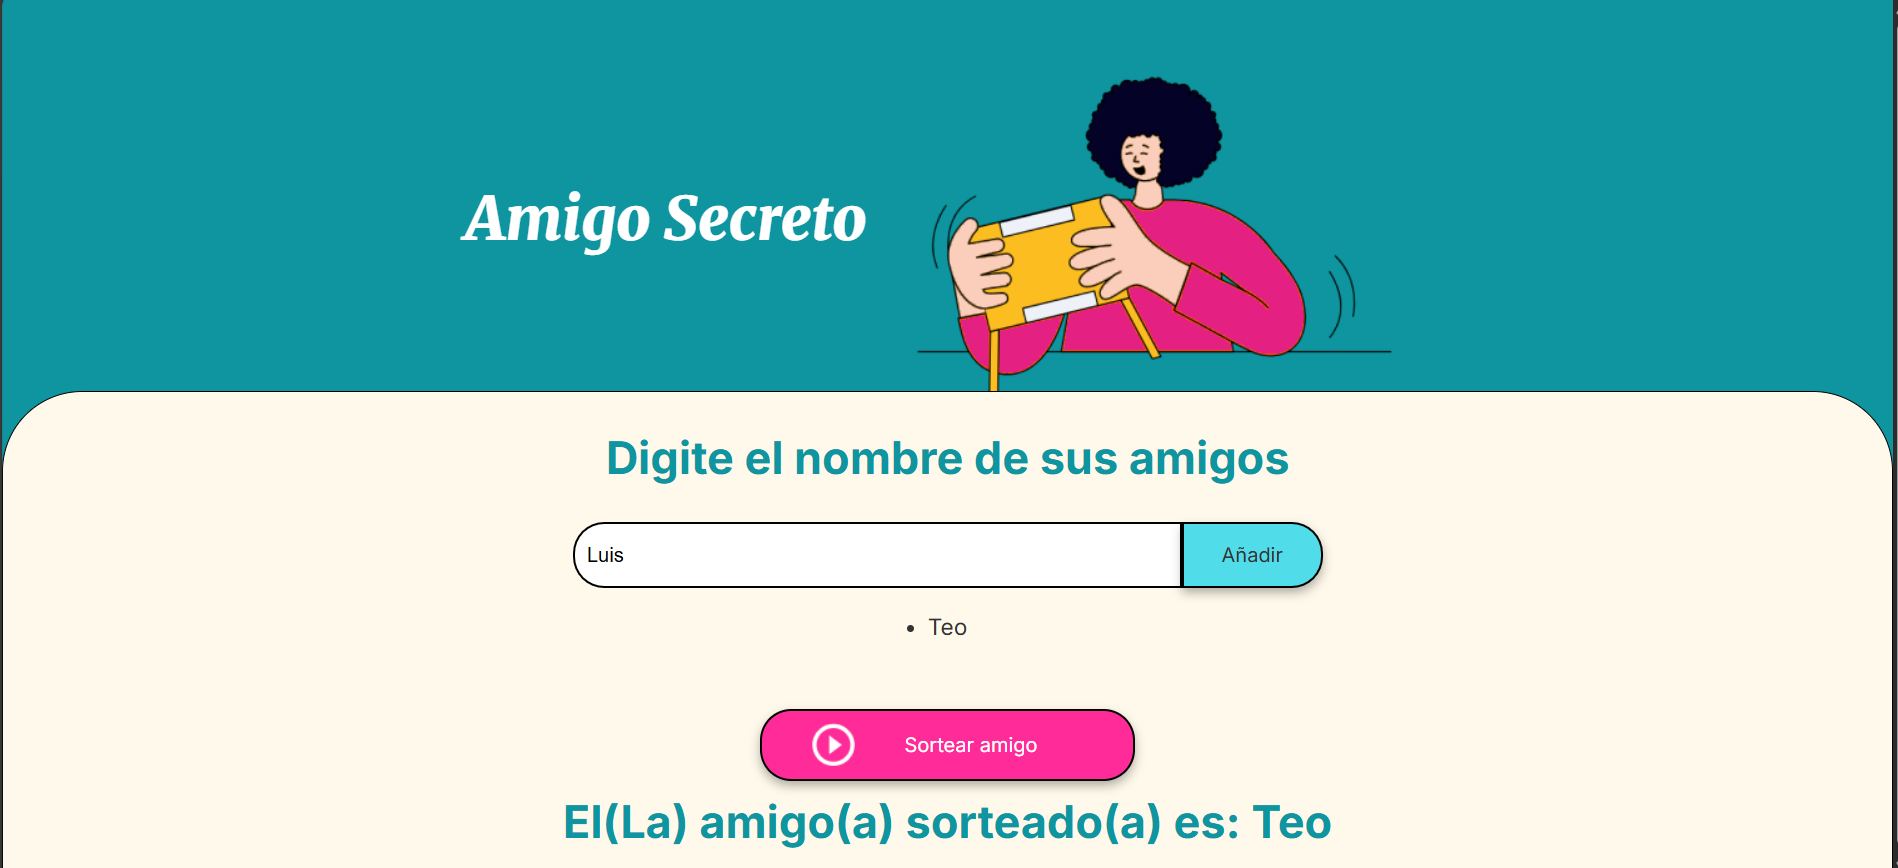
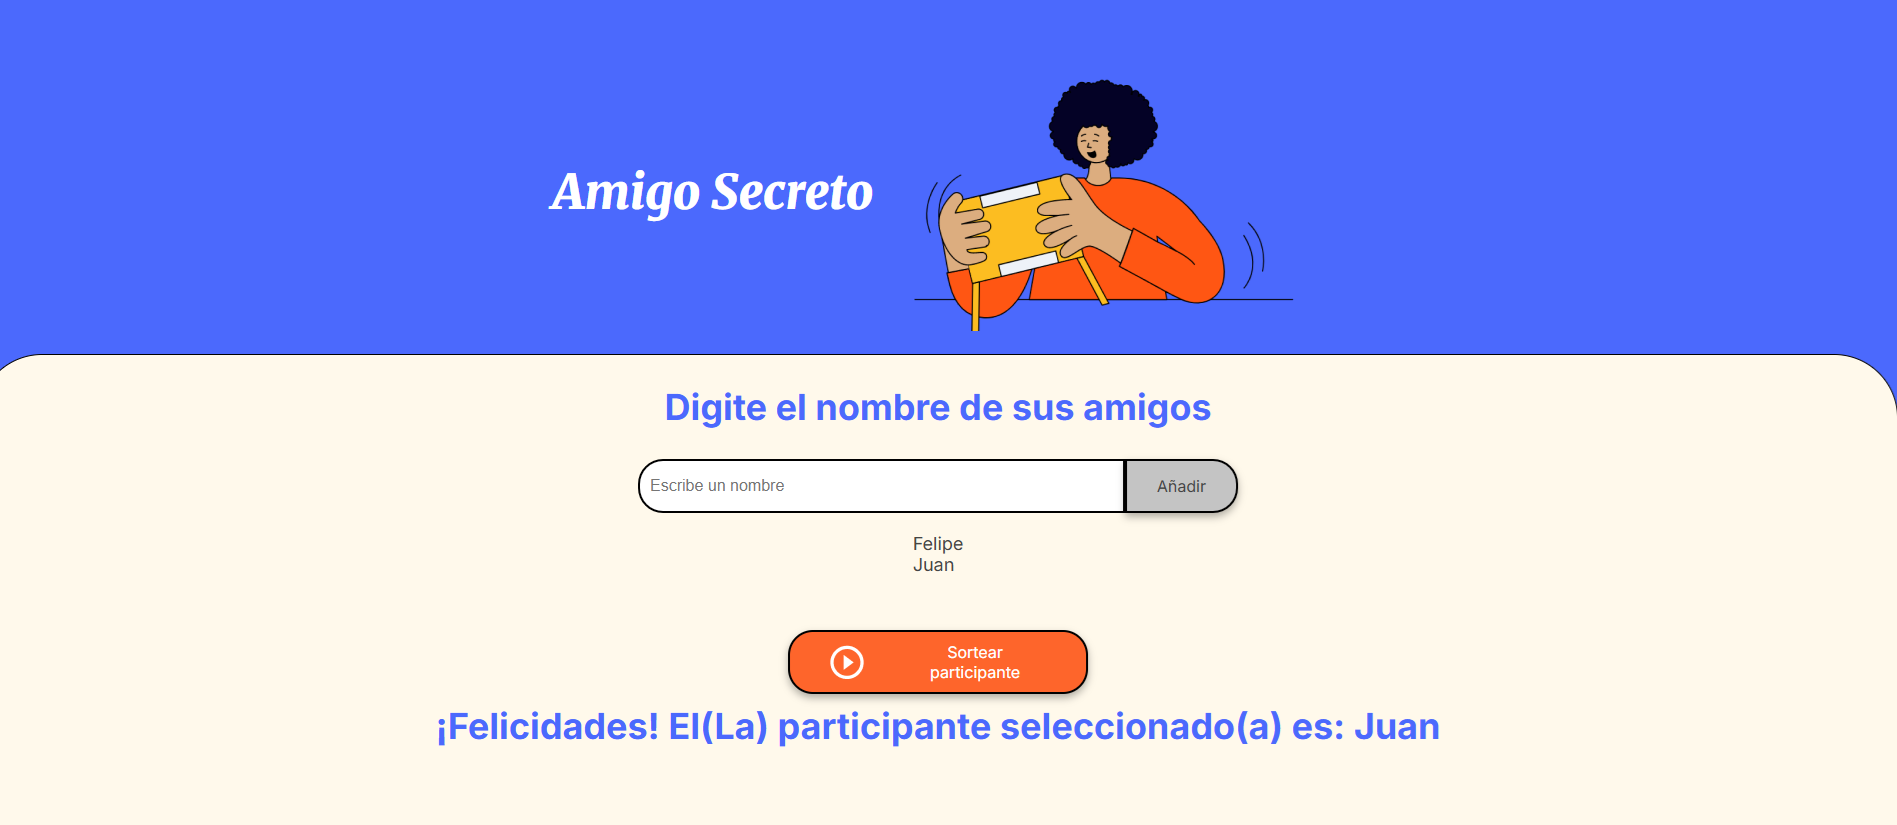
final

diff --git a/app.js b/app.js
@@ -1,48 +1,44 @@
 // El principal objetivo de este desafío es fortalecer tus habilidades en lógica de programación. 
 // Aquí deberás desarrollar la lógica para resolver el problema.
 
-let listaAmigos = [];
+let listaParticipantes = [];
 
-const nombreAmigo = document.getElementById("amigo");
+const inputParticipante = document.getElementById("participante");
 
-const listaHTML = document.getElementById("listaAmigos");
+const listaHTMLParticipantes = document.getElementById("listaParticipantes");
 
-let indiceAleatorio = 0;
+let indiceSeleccionado = 0;
 
-const amigoSorteado = document.getElementById("amigo-sorteado");
+const participanteSeleccionado = document.getElementById("participante-seleccionado");
 
-function limpiarCaja() {
-     nombreAmigo.value = '';
+function limpiarInput() {
+     inputParticipante.value = '';
 }
 
-function agregarAmigo() {
-    if (nombreAmigo.value == '') {
-        alert('Por favor ingresa un Nombre.');
+function agregarParticipante() {
+    if (inputParticipante.value == '') {
+        alert('Es necesario ingresar el nombre de un participante.');
     } else {
-        listaAmigos.push(nombreAmigo.value);
+        listaParticipantes.push(inputParticipante.value);
     }
-    limpiarCaja();
-    actualizarListaAmigos();
+    limpiarInput();
+    actualizarListaParticipantes();
 }
 
-
-
-function actualizarListaAmigos() {
-    listaHTML.innerHTML = '';
-    for (let i = 0; i < listaAmigos.length; i++) {
+function actualizarListaParticipantes() {
+    listaHTMLParticipantes.innerHTML = '';
+    for (let i = 0; i < listaParticipantes.length; i++) {
         const li = document.createElement('li');
-        li.innerHTML = listaAmigos[i];
-        listaHTML.appendChild(li);
-        
+        li.innerHTML = listaParticipantes[i];
+        listaHTMLParticipantes.appendChild(li);
     }
 }
 
-
-function sortearAmigo() {
-    if (listaAmigos.length == 0) {
-        alert("Primero debe ingresar el nombre de sus amigos.");
+function seleccionarParticipante() {
+    if (listaParticipantes.length == 0) {
+        alert("Primero debes agregar al menos un participante.");
     } else {
-        indiceAleatorio = Math.floor(Math.random()*listaAmigos.length);
-        amigoSorteado.innerHTML =  `El(La) amigo(a) sorteado(a) es: ${listaAmigos[indiceAleatorio]}`;
+        indiceSeleccionado = Math.floor(Math.random()*listaParticipantes.length);
+        participanteSeleccionado.innerHTML =  `¡Felicidades! El(La) participante seleccionado(a) es: ${listaParticipantes[indiceSeleccionado]}`;
     }
 }

diff --git a/index.html b/index.html
@@ -20,22 +20,22 @@
         <section class="input-section">
             <h2 class="section-title">Digite el nombre de sus amigos</h2>
             <div class="input-wrapper">
-                <input type="text" id="amigo" class="input-name" placeholder="Escribe un nombre">
-                <button class="button-add" onclick="agregarAmigo()">Añadir</button>
+                <input type="text" id="participante" class="input-name" placeholder="Escribe un nombre">
+                <button class="button-add" onclick="agregarParticipante()">Añadir</button>
             </div>
            
-            <ul id="listaAmigos" class="name-list" aria-labelledby="listaAmigos" role="list">
+            <ul id="listaParticipantes" class="name-list" aria-labelledby="listaParticipantes" role="list">
             
             </ul>
             <ul id="resultado" class="result-list" aria-live="polite"></ul>
 
             <div class="button-container">
-                <button class="button-draw" onclick="sortearAmigo()" aria-label="Sortear amigo secreto">
+                <button class="button-draw" onclick="seleccionarParticipante()" aria-label="Sortear participante">
                     <img src="assets/play_circle_outline.png" alt="Ícono para sortear">
-                    Sortear amigo
+                    Sortear participante
                 </button>
             </div>
-            <h1 class="section-title" id="amigo-sorteado"></h1>
+            <h1 class="section-title" id="participante-seleccionado"></h1>
         </section>
     </main>
 

diff --git a/style.css b/style.css
@@ -1,10 +1,10 @@
 :root {
-    --color-primary: #0e959f;
+    --color-primary: #4B69FD;
     --color-secondary: #FFF9EB;
-    --color-tertiary: #50dde9;
-    --color-button: #fe2b98;
-    --color-button-hover: #e52083;
-    --color-text: #333333;
+    --color-tertiary: #C4C4C4;
+    --color-button: #fe652b;
+    --color-button-hover: #e55720;
+    --color-text: #444444;
     --color-white: #FFFFFF;
 }
 
@@ -66,7 +66,7 @@ body {
     font-size: 36px;
     font-weight: 700;
     color: var(--color-primary);
-    margin: 10px 10px;
+    margin: 10px 0;
     text-align: center;
 }
 
@@ -127,7 +127,7 @@ button {
 
 /* Listas */
 ul {
-    /* list-style-type: none; */
+    list-style-type: none;
     color: var(--color-text);
     font-family: "Inter", sans-serif;
     font-size: 18px;
